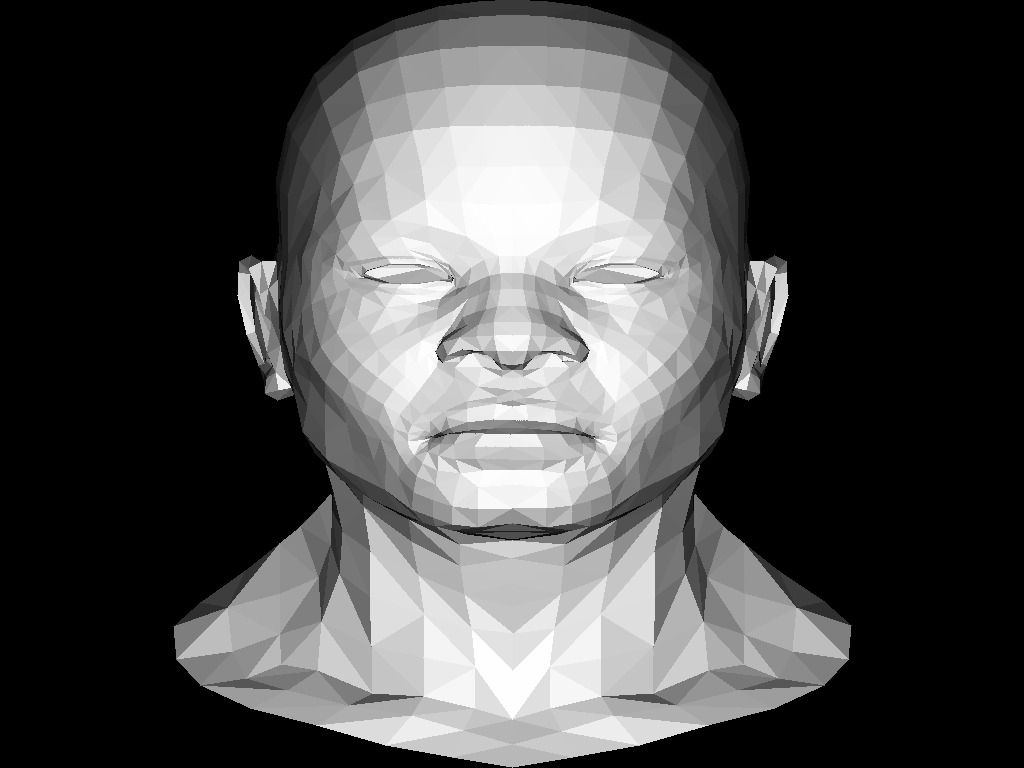
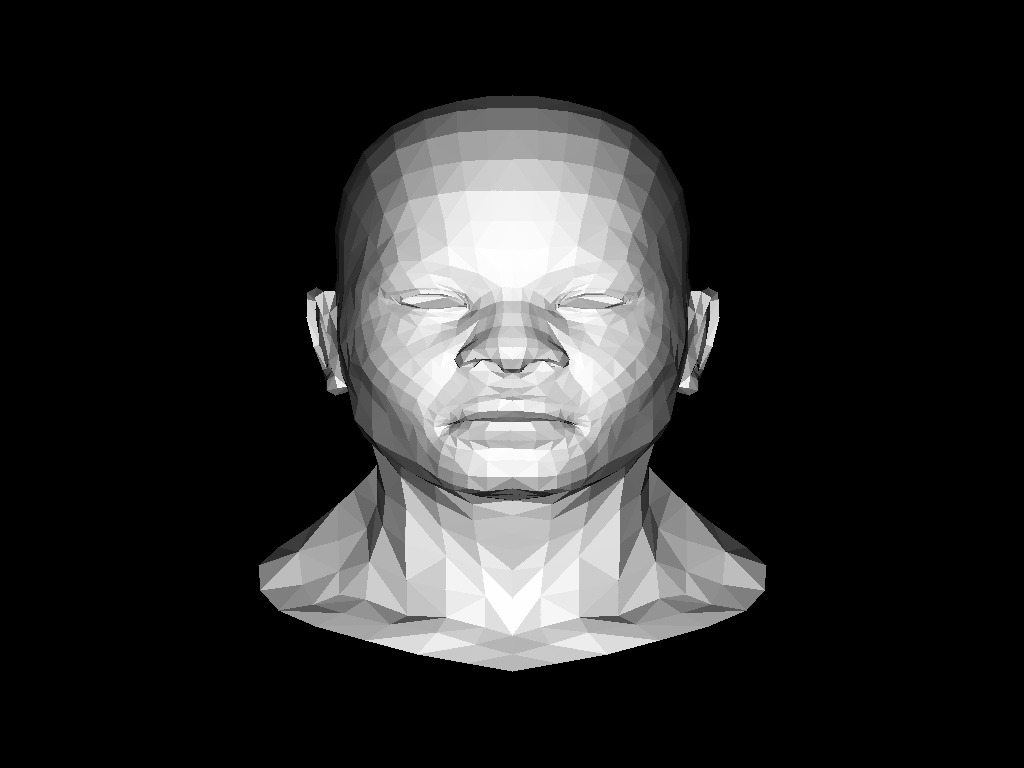
Ajout des prémices de la caméra

diff --git a/obj_render.cpp b/obj_render.cpp
@@ -5,13 +5,40 @@
 #include "model.h"
 #include "image.hpp"
 
+const int width = 1024;
+const int height = 768;
+const int depth = 255;
+Vec3f light_dir(0,0,-1);
+Vec3f camera(0,0,3);
+
+Matrix view2model(Vec3f v) {
+    Matrix m(4,1);
+    for (int i = 0; i < 3; i++)
+    {
+        m[i][0] = v[i];
+    }
+    m[3][0] = 1.;
+    return m;
+}
+
+Vec3f model2view(Matrix m) {
+    return Vec3f(int(m[0][0]/m[3][0] + 0.5), int(m[1][0]/m[3][0] + 0.5), m[2][0]/m[3][0]);
+}
+
+Matrix viewport(int x, int y, int w, int h) {
+    Matrix m = Matrix::identity(4);
+    m[0][3] = x+w/2.f;
+    m[1][3] = y+h/2.f;
+    m[2][3] = depth/2.f;
+
+    m[0][0] = w/2.f;
+    m[1][1] = h/2.f;
+    m[2][2] = depth/2.f;
+    return m;
+}
 
 void render(Model &model) {
-    const int width = 1024;
-    const int height = 768;
-
-    Vec3f light_dir(0,0,-1);
-
+   
     float zbuffer[width * height];
     
     for (int i = 0; i < width * height; i++)
@@ -19,13 +46,14 @@ void render(Model &model) {
         zbuffer[i] = -std::numeric_limits<float>::max();
     }
     
-
     Image img(width , height);  
 
     std::cout << "Sorting triangle " ; 
     model.sort_faces();
 
     std::cout << "Drawing triangle " ; 
+
+    Matrix ViewPort   = viewport(width/8, height/8, width*3/4, height*3/4);
 
     //Dessin des triangles du model
     for (int i = 0; i < model.nfaces() ; i++)
@@ -35,7 +63,7 @@ void render(Model &model) {
         Vec3f world_coords[3]; 
         for (int j=0; j<3; j++) { 
             Vec3f v = model.vert(face[j]); 
-            screen_coords[j] = Vec3f(int((v.x+1.)*width/2. + .5), int((v.y+1.)*height/2.+.5), v.z); 
+            screen_coords[j] = model2view(ViewPort * view2model(v));
             world_coords[j]  = v; 
         }
 

diff --git a/geometry.h b/geometry.h
@@ -61,4 +61,64 @@ template <class t> std::ostream& operator<<(std::ostream& s, Vec3<t>& v) {
 	return s;
 }
 
+//////////////////////////////////////////////////////////////////////////////////////////////
+
+const int DEFAULT_ALLOC=4;
+
+class Matrix {
+    std::vector<std::vector<float> > m;
+    int rows, cols;
+public:
+    Matrix(int r, int c) : m(std::vector<std::vector<float> >(r, std::vector<float>(c, 0.f))), rows(r), cols(c) { }
+
+int nrows() {
+    return rows;
+}
+
+int ncols() {
+    return cols;
+}
+
+std::vector<float>& operator[](const int i) {
+    assert(i>=0 && i<rows);
+    return m[i];
+}
+
+Matrix operator*(const Matrix& a) {
+    assert(cols == a.rows);
+    Matrix result(rows, a.cols);
+    for (int i=0; i<rows; i++) {
+        for (int j=0; j<a.cols; j++) {
+            result.m[i][j] = 0.f;
+            for (int k=0; k<cols; k++) {
+                result.m[i][j] += m[i][k]*a.m[k][j];
+            }
+        }
+    }
+    return result;
+}
+
+	Matrix transpose() {
+    	Matrix result(cols, rows);
+    	for(int i=0; i<rows; i++) {
+   	     for(int j=0; j<cols; j++){
+    	    result[j][i] = m[i][j];
+		 }
+		}
+    	return result;
+	}
+	
+	static Matrix identity(int dimensions) {
+    	Matrix E(dimensions, dimensions);
+    	for (int i=0; i<dimensions; i++) {
+        	for (int j=0; j<dimensions; j++) {
+            	E[i][j] = (i==j ? 1.f : 0.f);
+        	}
+    	}
+    	return E;
+	}
+};
+
+/////////////////////////////////////////////////////////////////////////////////////////////
+
 #endif //__GEOMETRY_H__
